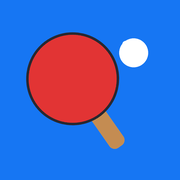
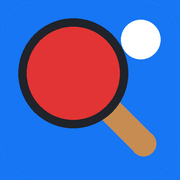
Profil: administratorul își stabilește ratingul inițial; iconița filei; versiunea în meniu
- „Profilul meu”: câmp „Rating inițial” doar pentru administrator; ratingul curent se recalculează
- Favicon SVG + PNG 16/32/48 desenate pentru dimensiuni mici, iconițe PWA/iPhone unificate
- build-info: versiunea Maven afișată în meniul lateral; imaginea Docker etichetată și cu versiunea
- Teste: administratorul își schimbă ratingul inițial, jucătorul nu

Claude-Session: https://claude.ai/code/session_01LGLMe4CRVUVmgktvsnfdP6

Changed region(s): [[0.0833, 0.0833, 0.9167, 0.8889]]

diff --git a/src/main/java/md/ttm/ui/account/ProfileView.java b/src/main/java/md/ttm/ui/account/ProfileView.java
@@ -5,6 +5,7 @@ import md.ttm.model.player.PlayStyle;
 import md.ttm.model.player.Player;
 import md.ttm.model.user.AppUser;
 import md.ttm.service.player.PlayerService;
+import md.ttm.security.SecurityUtils;
 import md.ttm.service.rating.RatingService;
 import md.ttm.service.user.UserService;
 import md.ttm.ui.components.Notifications;
@@ -18,6 +19,7 @@ import com.vaadin.flow.component.formlayout.FormLayout;
 import com.vaadin.flow.component.html.Div;
 import com.vaadin.flow.component.html.H2;
 import com.vaadin.flow.component.html.H3;
+import com.vaadin.flow.component.textfield.IntegerField;
 import com.vaadin.flow.component.html.Paragraph;
 import com.vaadin.flow.component.html.Span;
 import com.vaadin.flow.component.orderedlayout.HorizontalLayout;
@@ -32,7 +34,7 @@ import jakarta.annotation.security.PermitAll;
 
 /**
  * Pagina utilizatorului logat: datele proprii de jucător și schimbarea parolei.
- * Ratingul și statisticile sunt doar afișate; le gestionează administratorul (ulterior, rezultatele meciurilor).
+ * Ratingul și statisticile sunt doar afișate; administratorul își poate stabili aici ratingul inițial.
  */
 @Route(value = "profil", layout = MainLayout.class)
 @PageTitle("Profilul meu | TTM")
@@ -41,10 +43,14 @@ public class ProfileView extends VerticalLayout {
 
     private final PlayerService playerService;
     private final UserService userService;
+    private final RatingService ratingService;
+    private final Span ratingValue = new Span();
+    private RatingHistoryList history;
 
     public ProfileView(PlayerService playerService, UserService userService, RatingService ratingService) {
         this.playerService = playerService;
         this.userService = userService;
+        this.ratingService = ratingService;
         setMaxWidth("44rem");
 
         AppUser user = userService.findCurrentUser().orElseThrow();
@@ -56,9 +62,9 @@ public class ProfileView extends VerticalLayout {
         add(title, account);
 
         if (user.getPlayer() != null) {
-            add(createStats(user.getPlayer()), createPlayerForm(user.getPlayer()),
-                    new RatingHistoryList(ratingService.findHistory(user.getPlayer().getId()),
-                            user.getPlayer().getInitialRating()));
+            history = new RatingHistoryList(ratingService.findHistory(user.getPlayer().getId()),
+                    user.getPlayer().getInitialRating());
+            add(createStats(user.getPlayer()), createPlayerForm(user.getPlayer()), history);
         } else {
             add(new Paragraph("Acest cont nu are un profil de jucător."));
         }
@@ -67,15 +73,15 @@ public class ProfileView extends VerticalLayout {
 
     private Component createStats(Player player) {
         HorizontalLayout stats = new HorizontalLayout(
-                stat("Rating", String.valueOf(player.getRating())),
-                stat("Victorii", String.valueOf(player.getWins())),
-                stat("Înfrângeri", String.valueOf(player.getLosses())));
+                stat("Rating", ratingValue, String.valueOf(player.getRating())),
+                stat("Victorii", new Span(), String.valueOf(player.getWins())),
+                stat("Înfrângeri", new Span(), String.valueOf(player.getLosses())));
         stats.getStyle().set("flex-wrap", "wrap");
         return stats;
     }
 
-    private static Component stat(String label, String value) {
-        Span valueSpan = new Span(value);
+    private static Component stat(String label, Span valueSpan, String value) {
+        valueSpan.setText(value);
         valueSpan.getStyle()
                 .set("font-size", "var(--lumo-font-size-xxl)")
                 .set("font-weight", "600")
@@ -113,11 +119,25 @@ public class ProfileView extends VerticalLayout {
         binder.forField(city).bind("city");
         binder.forField(phone).bind("phone");
         PlayerDetailsFields details = new PlayerDetailsFields(binder);
+        IntegerField initialRating = null;
+        if (SecurityUtils.isAdmin()) {
+            // Doar administratorul își poate stabili ratingul inițial; ratingul curent se recalculează
+            initialRating = new IntegerField("Rating inițial");
+            initialRating.setMin(0);
+            initialRating.setMax(5000);
+            initialRating.setStep(10);
+            initialRating.setStepButtonsVisible(true);
+            initialRating.setHelperText("Punctul de plecare; ratingul curent se recalculează din el și din turneele încheiate");
+            binder.forField(initialRating).asRequired("Introduceți ratingul inițial").bind("initialRating");
+        }
         binder.readBean(player);
 
         FormLayout form = new FormLayout(lastName, firstName, playStyle);
         details.addPlayHandTo(form);
         form.add(city, phone);
+        if (initialRating != null) {
+            form.add(initialRating);
+        }
         details.addEquipmentTo(form);
         form.setResponsiveSteps(
                 new FormLayout.ResponsiveStep("0", 1),
@@ -128,6 +148,7 @@ public class ProfileView extends VerticalLayout {
                 try {
                     Player saved = playerService.updateOwnProfile(player);
                     binder.readBean(saved);
+                    refreshRating(saved);
                     Notifications.success("Profil salvat");
                 } catch (RuntimeException ex) {
                     Notifications.error(Notifications.saveError(ex));
@@ -139,6 +160,15 @@ public class ProfileView extends VerticalLayout {
         VerticalLayout section = new VerticalLayout(new H3("Date personale"), form, save);
         section.setPadding(false);
         return section;
+    }
+
+    /** După schimbarea ratingului inițial: ratingul curent și istoricul, fără reîncărcarea paginii. */
+    private void refreshRating(Player saved) {
+        ratingValue.setText(String.valueOf(saved.getRating()));
+        RatingHistoryList updated = new RatingHistoryList(ratingService.findHistory(saved.getId()),
+                saved.getInitialRating());
+        replace(history, updated);
+        history = updated;
     }
 
     private Component createPasswordForm() {

diff --git a/src/main/java/md/ttm/ui/layout/MainLayout.java b/src/main/java/md/ttm/ui/layout/MainLayout.java
@@ -1,6 +1,8 @@
 package md.ttm.ui.layout;
 
 import md.ttm.model.user.AppUser;
+import org.springframework.beans.factory.ObjectProvider;
+import org.springframework.boot.info.BuildProperties;
 import md.ttm.model.user.Role;
 import md.ttm.security.SecurityUtils;
 import md.ttm.service.user.UserService;
@@ -38,12 +40,14 @@ public class MainLayout extends AppLayout {
     /** Elemente ascunse pe telefon, ca bara de sus să încapă pe ecran. */
     private final List<Component> hiddenWhenNarrow = new ArrayList<>();
 
-    public MainLayout(AuthenticationContext authenticationContext, UserService userService) {
+    public MainLayout(AuthenticationContext authenticationContext, UserService userService,
+                      ObjectProvider<BuildProperties> buildProperties) {
         setPrimarySection(Section.DRAWER);
         Component title = createTitle();
         hiddenWhenNarrow.add(title);
         addToNavbar(new DrawerToggle(), title, createUserArea(authenticationContext, userService));
-        addToDrawer(createDrawerHeader(), new Scroller(createNavigation()));
+        BuildProperties build = buildProperties.getIfAvailable();
+        addToDrawer(createDrawerHeader(build == null ? null : build.getVersion()), new Scroller(createNavigation()));
         Responsive.onNarrowChange(this, narrow -> hiddenWhenNarrow.forEach(c -> c.setVisible(!narrow)));
     }
 
@@ -56,7 +60,7 @@ public class MainLayout extends AppLayout {
         return title;
     }
 
-    private static Component createDrawerHeader() {
+    private static Component createDrawerHeader(String version) {
         Span logo = new Span("TTM");
         logo.getStyle()
                 .set("font-size", "var(--lumo-font-size-xl)")
@@ -67,6 +71,13 @@ public class MainLayout extends AppLayout {
                 .set("font-size", "var(--lumo-font-size-s)")
                 .set("color", "var(--lumo-secondary-text-color)");
         Div header = new Div(logo, subtitle);
+        if (version != null) {
+            Span versionLabel = new Span("Versiunea " + version);
+            versionLabel.getStyle()
+                    .set("font-size", "var(--lumo-font-size-xs)")
+                    .set("color", "var(--lumo-tertiary-text-color)");
+            header.add(versionLabel);
+        }
         header.getStyle()
                 .set("display", "flex")
                 .set("flex-direction", "column")

diff --git a/src/main/java/md/ttm/service/player/PlayerService.java b/src/main/java/md/ttm/service/player/PlayerService.java
@@ -101,7 +101,8 @@ public class PlayerService {
 
     /**
      * Actualizează profilul de jucător al utilizatorului autentificat.
-     * Se preiau doar datele personale și echipamentul; ratingul și statisticile nu pot fi modificate de jucător.
+     * Se preiau datele personale și echipamentul. Ratingul și statisticile nu pot fi modificate de jucător;
+     * administratorul își poate stabili ratingul inițial, iar ratingul curent se recalculează.
      */
     @PreAuthorize("isAuthenticated()")
     @Transactional
@@ -124,7 +125,20 @@ public class PlayerService {
         own.setForehandRubber(edited.getForehandRubber());
         own.setBackhandRubber(edited.getBackhandRubber());
         normalize(own);
-        return playerRepository.save(own);
+        boolean initialRatingChanged = SecurityUtils.isAdmin()
+                && edited.getInitialRating() != own.getInitialRating();
+        if (initialRatingChanged) {
+            if (edited.getInitialRating() < 0) {
+                throw new BusinessException("Ratingul inițial nu poate fi negativ");
+            }
+            own.setInitialRating(edited.getInitialRating());
+        }
+        Player saved = playerRepository.saveAndFlush(own);
+        if (initialRatingChanged) {
+            ratingService.recalculateAll();
+            return playerRepository.findById(saved.getId()).orElseThrow();
+        }
+        return saved;
     }
 
     private static void normalize(Player player) {

diff --git a/src/main/java/md/ttm/TtmApplication.java b/src/main/java/md/ttm/TtmApplication.java
@@ -1,6 +1,7 @@
 package md.ttm;
 
 import com.vaadin.flow.component.page.AppShellConfigurator;
+import com.vaadin.flow.server.AppShellSettings;
 import com.vaadin.flow.server.PWA;
 import org.springframework.boot.SpringApplication;
 import org.springframework.boot.autoconfigure.SpringBootApplication;
@@ -12,8 +13,18 @@ import org.springframework.boot.autoconfigure.SpringBootApplication;
  */
 @SpringBootApplication
 @PWA(name = "TTM - Tenis de masă", shortName = "TTM",
-        description = "Jucători, clasament și turnee de tenis de masă")
+        description = "Jucători, clasament și turnee de tenis de masă",
+        iconPath = "icons/icon.png")
 public class TtmApplication implements AppShellConfigurator {
+
+    /** Iconița din fila browserului: SVG pentru browserele moderne, PNG ca rezervă, iar pentru iPhone apple-touch-icon. */
+    @Override
+    public void configurePage(AppShellSettings settings) {
+        settings.addFavIcon("icon", "icons/favicon.svg", "any");
+        settings.addFavIcon("icon", "icons/favicon-32.png", "32x32");
+        settings.addFavIcon("icon", "icons/favicon-16.png", "16x16");
+        settings.addFavIcon("apple-touch-icon", "apple-touch-icon.png", "180x180");
+    }
 
     public static void main(String[] args) {
         SpringApplication.run(TtmApplication.class, args);

diff --git a/src/test/java/md/ttm/service/player/PlayerServiceIT.java b/src/test/java/md/ttm/service/player/PlayerServiceIT.java
@@ -127,6 +127,7 @@ class PlayerServiceIT {
         own.setForehandRubber("Tenergy 05");
         own.setBackhandRubber("");
         own.setRating(3000);
+        own.setInitialRating(3000);
         own.setWins(99);
         Player saved = playerService.updateOwnProfile(own);
 
@@ -150,6 +151,22 @@ class PlayerServiceIT {
 
         assertThatThrownBy(() -> playerService.updateOwnProfile(other))
                 .isInstanceOf(BusinessException.class);
+    }
+
+    @Test
+    @WithMockUser(username = "ion", roles = "ADMIN")
+    void administratorulIsiPoateStabiliRatingulInitialDinProfil() {
+        userService.register(new RegistrationForm("Ion", "Nuca", "ion", "parola-ion"));
+        entityManager.flush();
+        entityManager.clear();
+        Player own = userRepository.findByUsername("ion").orElseThrow().getPlayer();
+        entityManager.clear();
+
+        own.setInitialRating(1500);
+        Player saved = playerService.updateOwnProfile(own);
+
+        assertThat(saved.getInitialRating()).isEqualTo(1500);
+        assertThat(saved.getRating()).isEqualTo(1500);
     }
 
     private static Player player(String firstName, String lastName, int rating) {
